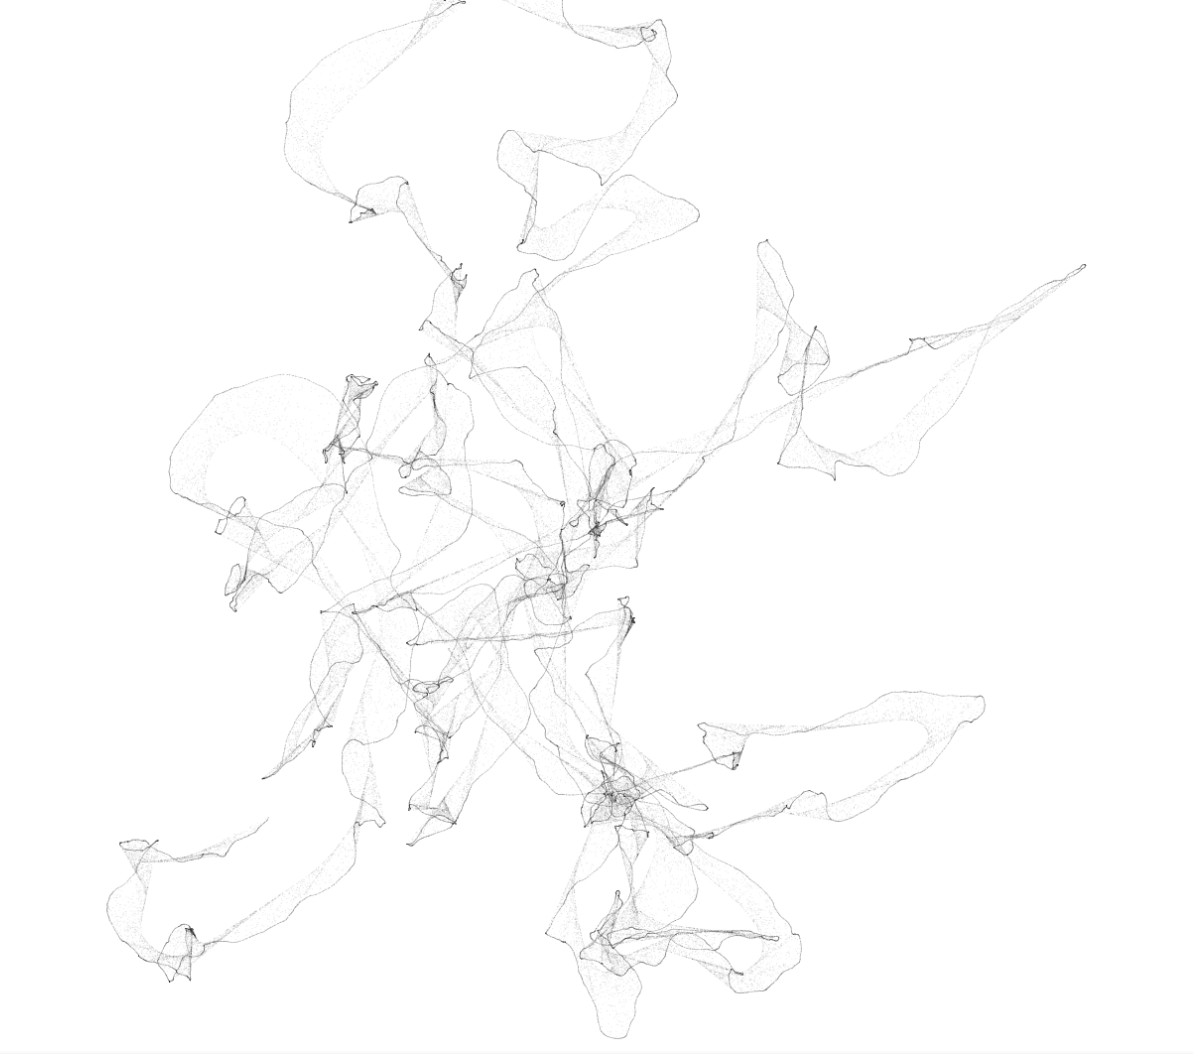
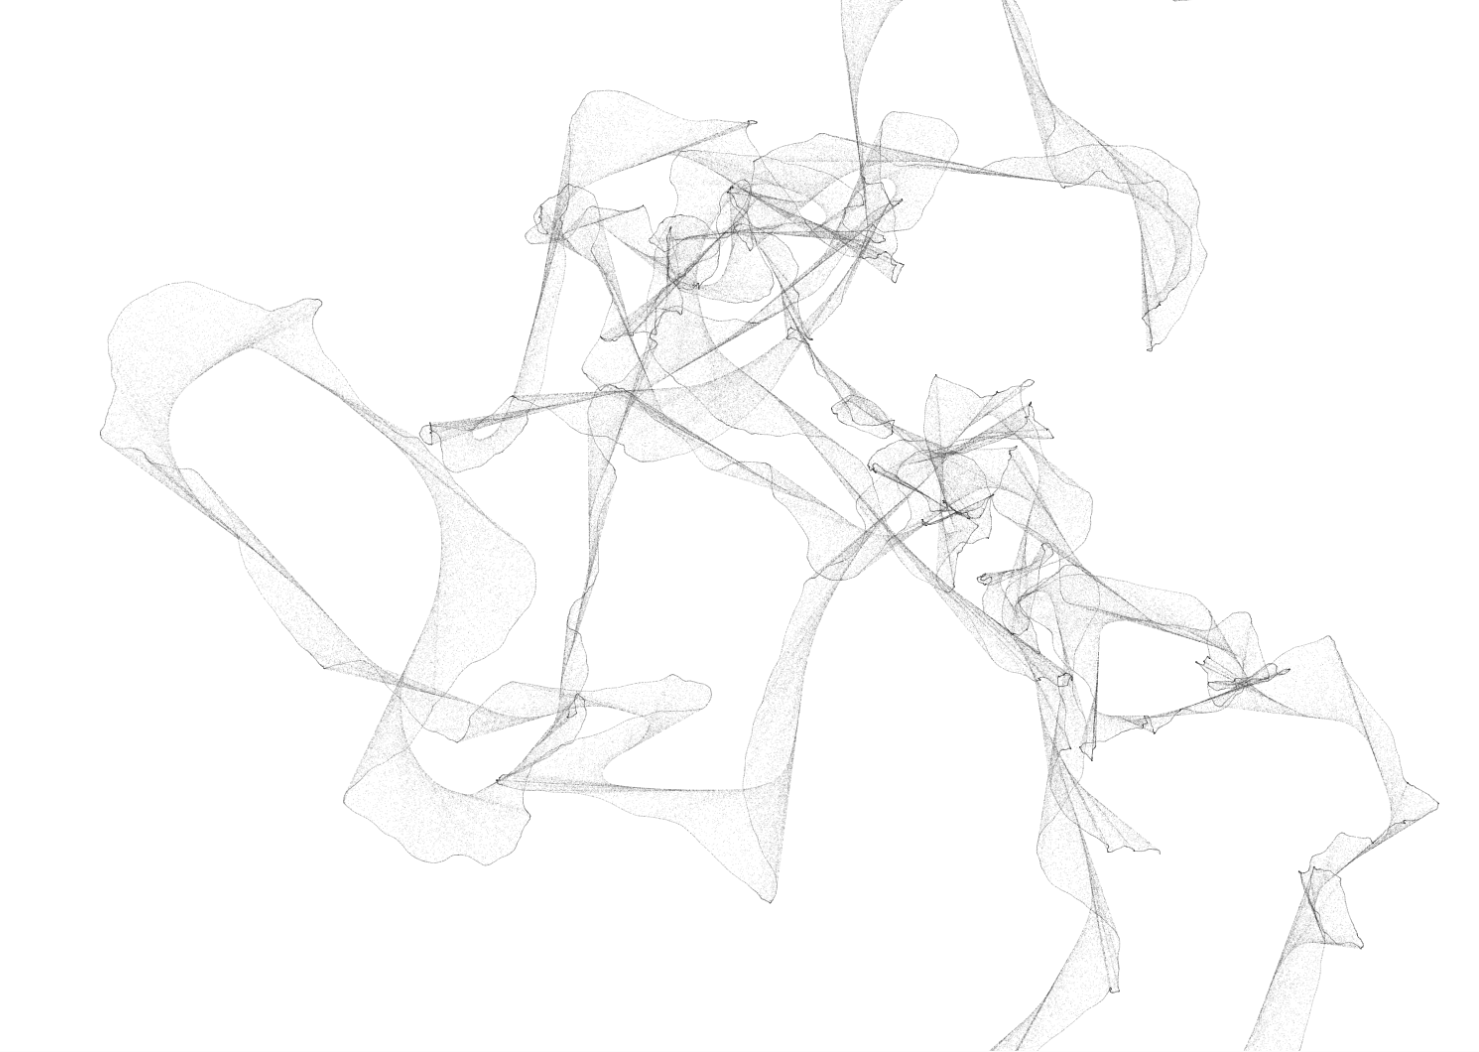
Drag value adjustments

diff --git a/canvas.js b/canvas.js
@@ -12,8 +12,10 @@ function drawPixel(ctx, pt, size){
 }
 
 
-function sandline(ctx, a, b){
-	var res = 5;//a.sub(b).length() / 5;
+function sandline(ctx, a, b, res){
+	if(res == -1){
+		res = a.sub(b).length() / 5;
+	}
 	for(var i = 0; i < res; ++i){
 		var frac = Math.random();
 		drawpoint = lerpPoint(a, b, frac);
@@ -82,17 +84,17 @@ var A, Last, V;
 var Drag;
 
 function draw(ctx, width, height){
-	V = V.add(random_move(0.9)).scale(0.98);
+	V = V.add(random_move(0.9)).scale(0.985);
 	var center = new Point(width/2, height/2);
 	V = V.add(center.sub(A).scale(0.00001));
 	console.log(V);
 	A = A.add(V);
-	sandline(ctx, Last, A);
+	sandline(ctx, Last, A, 5);
 	Last = A;
 
-	Drag = Drag.add(A.sub(Drag).scale(0.01));
+	Drag = Drag.add(A.sub(Drag).scale(0.008));
 
-	sandline(ctx, Drag, A);
+	sandline(ctx, Drag, A, -1);
 	
 }
 
